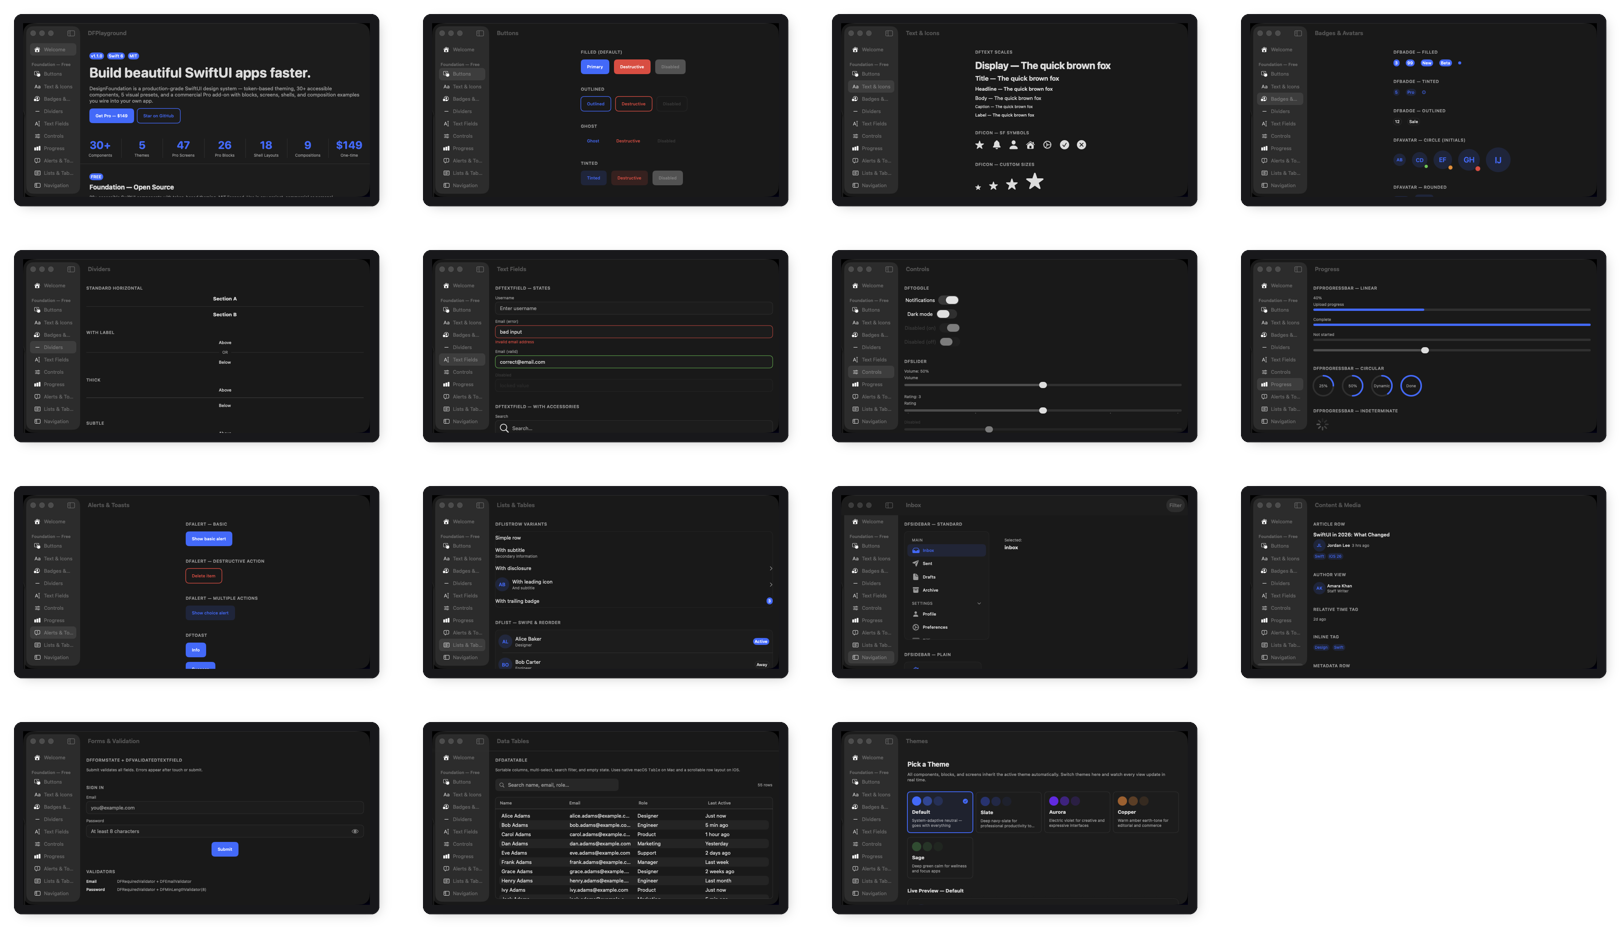
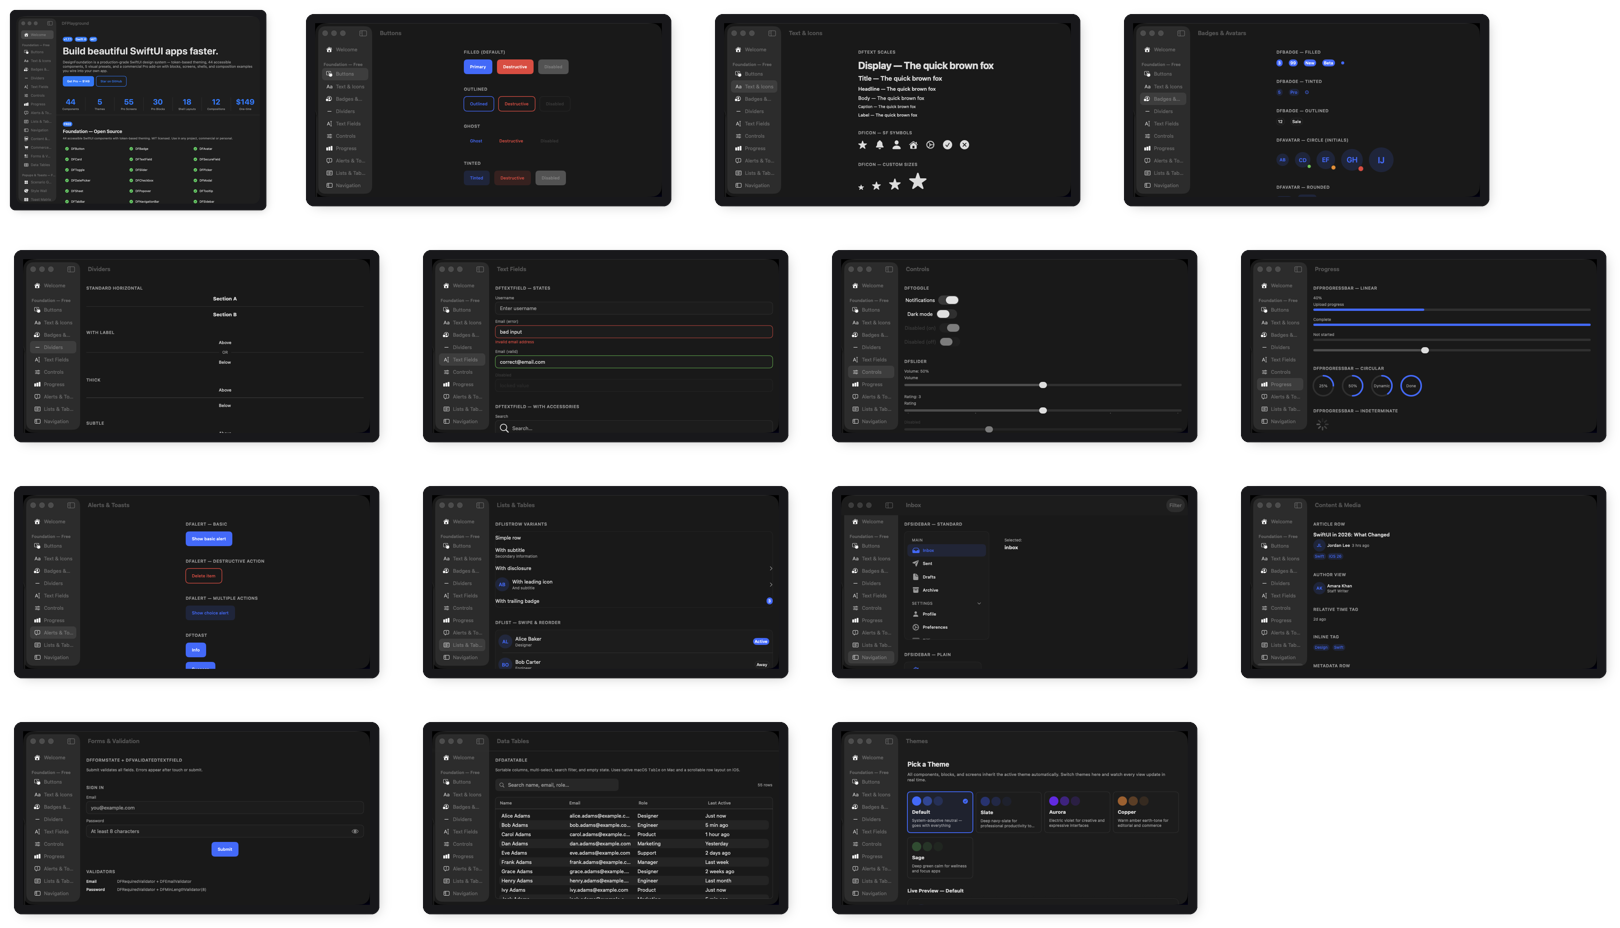
Docs screenshots: recapture Welcome, Pro Screens tile, plan selection and billing with code-derived counts; sync docs copies and strips; capture by window ID and normalize to point size

Changed region(s): [[0.0, 0.0, 1.0, 0.25]]

diff --git a/scripts/generate_screenshot_catalog.py b/scripts/generate_screenshot_catalog.py
@@ -29,6 +29,7 @@ Usage: python3 scripts/generate_screenshot_catalog.py [--skip-capture] [--only N
                     git-ignored), then strips and index are regenerated as usual.
 
 Environment overrides (defaults unchanged): DFP_PLAYGROUND_ROOT, DFP_PRO_ROOT,
+DFP_TAB_WINDOW_SIZE ("WxH" points; resizes top-level tab windows before capture),
 DFP_SCRATCH_PATH (passed to `swift build --scratch-path`, and where the binary is
 looked up), DFP_BUILD_TIMEOUT (seconds).
 """
@@ -269,6 +270,32 @@ def restore_apps(names: list[str]) -> None:
         _run(["osascript", "-e", f'tell application "System Events" to set visible of process "{name}" to true'])
 
 
+_WINDOW_ID_SWIFT = """
+import CoreGraphics
+import Foundation
+let pid = Int32(ProcessInfo.processInfo.environment["DFP_PID"] ?? "") ?? -1
+let list = (CGWindowListCopyWindowInfo([.optionOnScreenOnly], kCGNullWindowID) as? [[String: Any]]) ?? []
+for w in list where (w["kCGWindowOwnerPID"] as? Int32) == pid && (w["kCGWindowLayer"] as? Int) == 0 {
+    print(w["kCGWindowNumber"] ?? "")
+    break
+}
+"""
+
+
+def find_window_id(pid: int) -> str | None:
+    result = _run(["swift", "-e", _WINDOW_ID_SWIFT], env={**os.environ, "DFP_PID": str(pid)}, timeout=120)
+    out = result.stdout.strip()
+    return out if result.returncode == 0 and out.isdigit() else None
+
+
+def _normalize_to_points(path: Path, width: int, height: int) -> None:
+    """Window-ID captures come back at backing-store (Retina 2x) size; scale to the window's
+    point size so frames stay comparable with earlier captures."""
+    img = Image.open(path)
+    if width > 0 and height > 0 and img.width >= width * 1.5:
+        img.convert("RGBA").resize((width, height), Image.LANCZOS).save(path)
+
+
 def capture_target(target: CaptureTarget, binary: Path) -> Path | None:
     env_overrides = {target.env_var: target.env_value}
     if target.hide_main:
@@ -287,6 +314,13 @@ def capture_target(target: CaptureTarget, binary: Path) -> Path | None:
         _run(["osascript", "-e",
               'tell application "System Events" to tell process "DFPlayground" to '
               'set position of window 1 to {60, 60}'])
+        tab_size = os.environ.get("DFP_TAB_WINDOW_SIZE")  # e.g. "900x450"; top-level tab entries only
+        if tab_size and target.env_var == "DFP_TAB_ID":
+            tw, th = tab_size.lower().split("x")
+            _run(["osascript", "-e",
+                  'tell application "System Events" to tell process "DFPlayground" to '
+                  f'set size of window 1 to {{{int(tw)}, {int(th)}}}'])
+            time.sleep(ACTIVATE_SETTLE_SECONDS)
         time.sleep(ACTIVATE_SETTLE_SECONDS)
 
         pos = _run(["osascript", "-e",
@@ -302,7 +336,15 @@ def capture_target(target: CaptureTarget, binary: Path) -> Path | None:
 
         out_path = RAW_DIR / f"{slug(target.category)}__{slug(target.name)}.png"
         RAW_DIR.mkdir(parents=True, exist_ok=True)
-        capture = _run(["screencapture", f"-R{x},{y},{w},{h}", "-o", str(out_path)])
+        # Prefer capturing the window by ID: unlike a screen-rect grab it is immune to
+        # other apps' windows (browsers, other DFPlayground builds) drawn on top of it.
+        window_id = find_window_id(proc.pid)
+        if window_id is not None:
+            capture = _run(["screencapture", f"-l{window_id}", "-o", str(out_path)])
+            if capture.returncode == 0 and out_path.exists():
+                _normalize_to_points(out_path, int(float(w)), int(float(h)))
+        else:
+            capture = _run(["screencapture", f"-R{x},{y},{w},{h}", "-o", str(out_path)])
         if capture.returncode != 0 or not out_path.exists():
             print(f"  SKIP {target.category}/{target.name}: screencapture failed")
             return None
@@ -382,7 +424,10 @@ def frame_image(src: Path, dest: Path) -> None:
     # Screenshot, corner-clipped to sit inside the card
     mask = Image.new("L", (w, h), 0)
     ImageDraw.Draw(mask).rounded_rectangle([0, 0, w, h], radius=max(CARD_RADIUS - CARD_PADDING, 0), fill=255)
-    base.paste(shot, (shadow_pad + CARD_PADDING, shadow_pad + CARD_PADDING), mask)
+    # Window-ID captures carry transparent corners; flatten onto the card colour first.
+    flat = Image.new("RGBA", shot.size, CARD_BACKGROUND)
+    flat.alpha_composite(shot)
+    base.paste(flat, (shadow_pad + CARD_PADDING, shadow_pad + CARD_PADDING), mask)
 
     dest.parent.mkdir(parents=True, exist_ok=True)
     base.save(dest)
